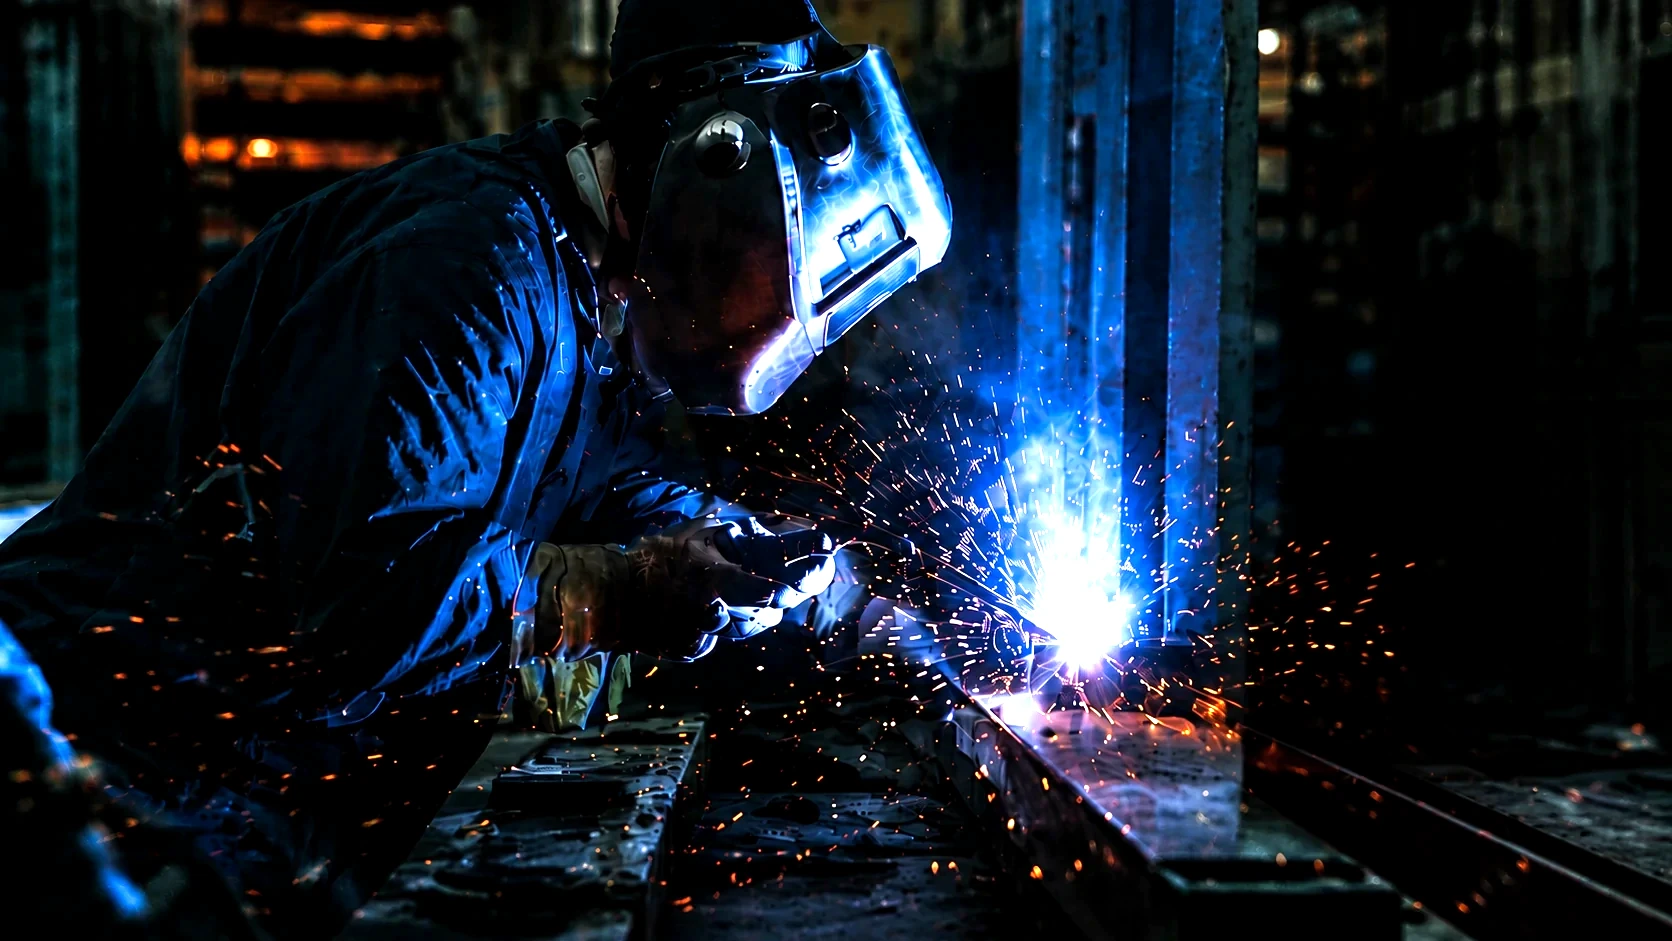
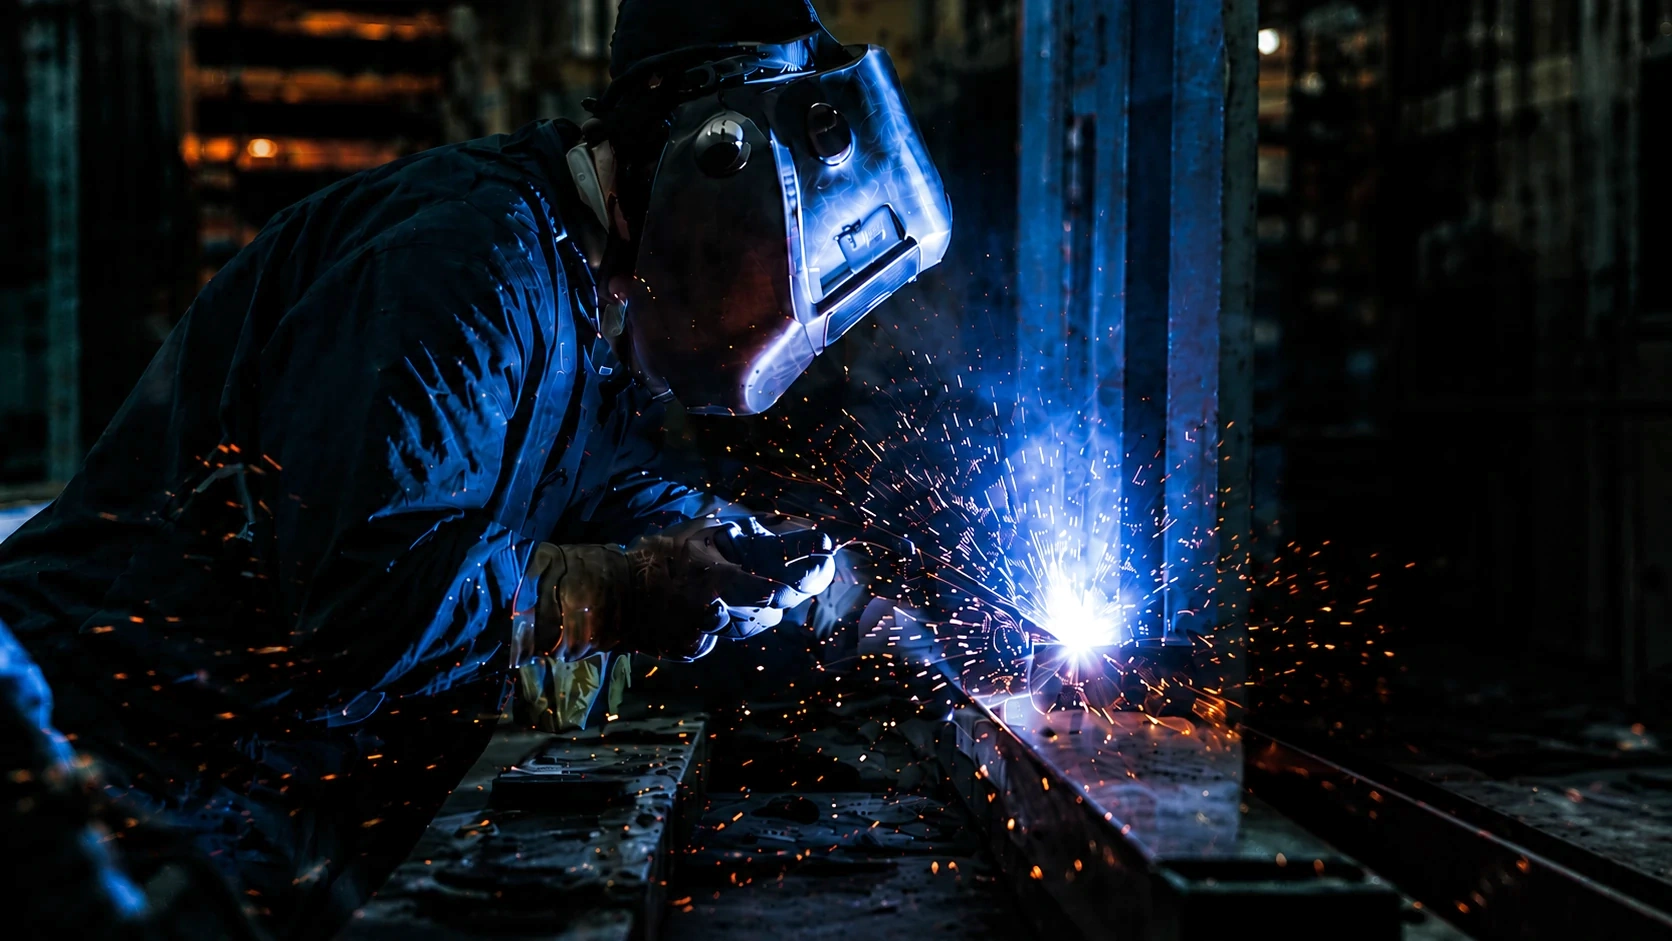
Add files via upload

diff --git a/index.html b/index.html
@@ -2486,7 +2486,29 @@ main#top > .renvis-feature-banner::before,
  .stat-item small{font-size:clamp(.48rem,2.25vw,.62rem);letter-spacing:0;}
  .logo{width:138px!important;max-width:138px!important;}
 }
-</style></head>
+</style>
+<style id="renvis-hero-stats-correction-20261022">
+/* Correct photo exposure without darkening it again with a heavy CSS overlay. */
+main#top > .hero .hero-bg{filter:none!important;}
+main#top > .hero::after{background:linear-gradient(90deg,rgba(3,5,9,.48) 0%,rgba(3,5,9,.19) 42%,rgba(3,5,9,.04) 100%),linear-gradient(0deg,rgba(5,7,10,.40),transparent 27%)!important;}
+/* Full-width, centered overlapping panel; do not let previous section rules pin it left. */
+main#top > .stats-strip{box-sizing:border-box!important;position:relative!important;z-index:5!important;display:block!important;width:calc(100% - 88px)!important;max-width:1500px!important;margin:-36px auto 0!important;padding:0!important;background:linear-gradient(115deg,#161b21,#0c1015)!important;border:1px solid rgba(190,160,100,.40)!important;box-shadow:0 15px 36px rgba(0,0,0,.32)!important;}
+main#top > .stats-strip > .stats-grid,main#top > .stats-strip > .wrap{box-sizing:border-box!important;display:grid!important;grid-template-columns:repeat(3,minmax(0,1fr))!important;width:100%!important;max-width:none!important;margin:0!important;padding:0!important;gap:0!important;min-height:122px!important;}
+main#top > .stats-strip .stat-item{box-sizing:border-box!important;display:flex!important;flex-direction:column!important;align-items:center!important;justify-content:center!important;min-height:122px!important;padding:20px 12px!important;gap:9px!important;border:0!important;border-right:1px solid rgba(201,179,136,.22)!important;background:transparent!important;box-shadow:none!important;}
+main#top > .stats-strip .stat-item:last-child{border-right:0!important;}
+main#top > .stats-strip .stat-item strong{font-size:clamp(2rem,3.4vw,3.2rem)!important;line-height:1!important;letter-spacing:-.04em!important;color:#e8c77e!important;}
+main#top > .stats-strip .stat-item strong.area{font-size:clamp(2rem,3.2vw,3.05rem)!important;}
+main#top > .stats-strip .stat-item small{font-size:clamp(.72rem,.85vw,.88rem)!important;color:#c5c8ce!important;letter-spacing:.045em!important;}
+@media(max-width:760px){
+ main#top > .stats-strip{width:calc(100% - 24px)!important;margin:-20px auto 0!important;}
+ main#top > .stats-strip > .stats-grid,main#top > .stats-strip > .wrap{min-height:84px!important;}
+ main#top > .stats-strip .stat-item{min-height:84px!important;padding:12px 3px!important;gap:6px!important;}
+ main#top > .stats-strip .stat-item strong{font-size:clamp(1.15rem,5.3vw,1.7rem)!important;}
+ main#top > .stats-strip .stat-item strong.area{font-size:clamp(1.1rem,5vw,1.65rem)!important;}
+ main#top > .stats-strip .stat-item small{font-size:clamp(.48rem,2.05vw,.65rem)!important;letter-spacing:0!important;text-align:center!important;}
+}
+</style>
+</head>
 <body>
 <header id="header">
 <div class="nav">
